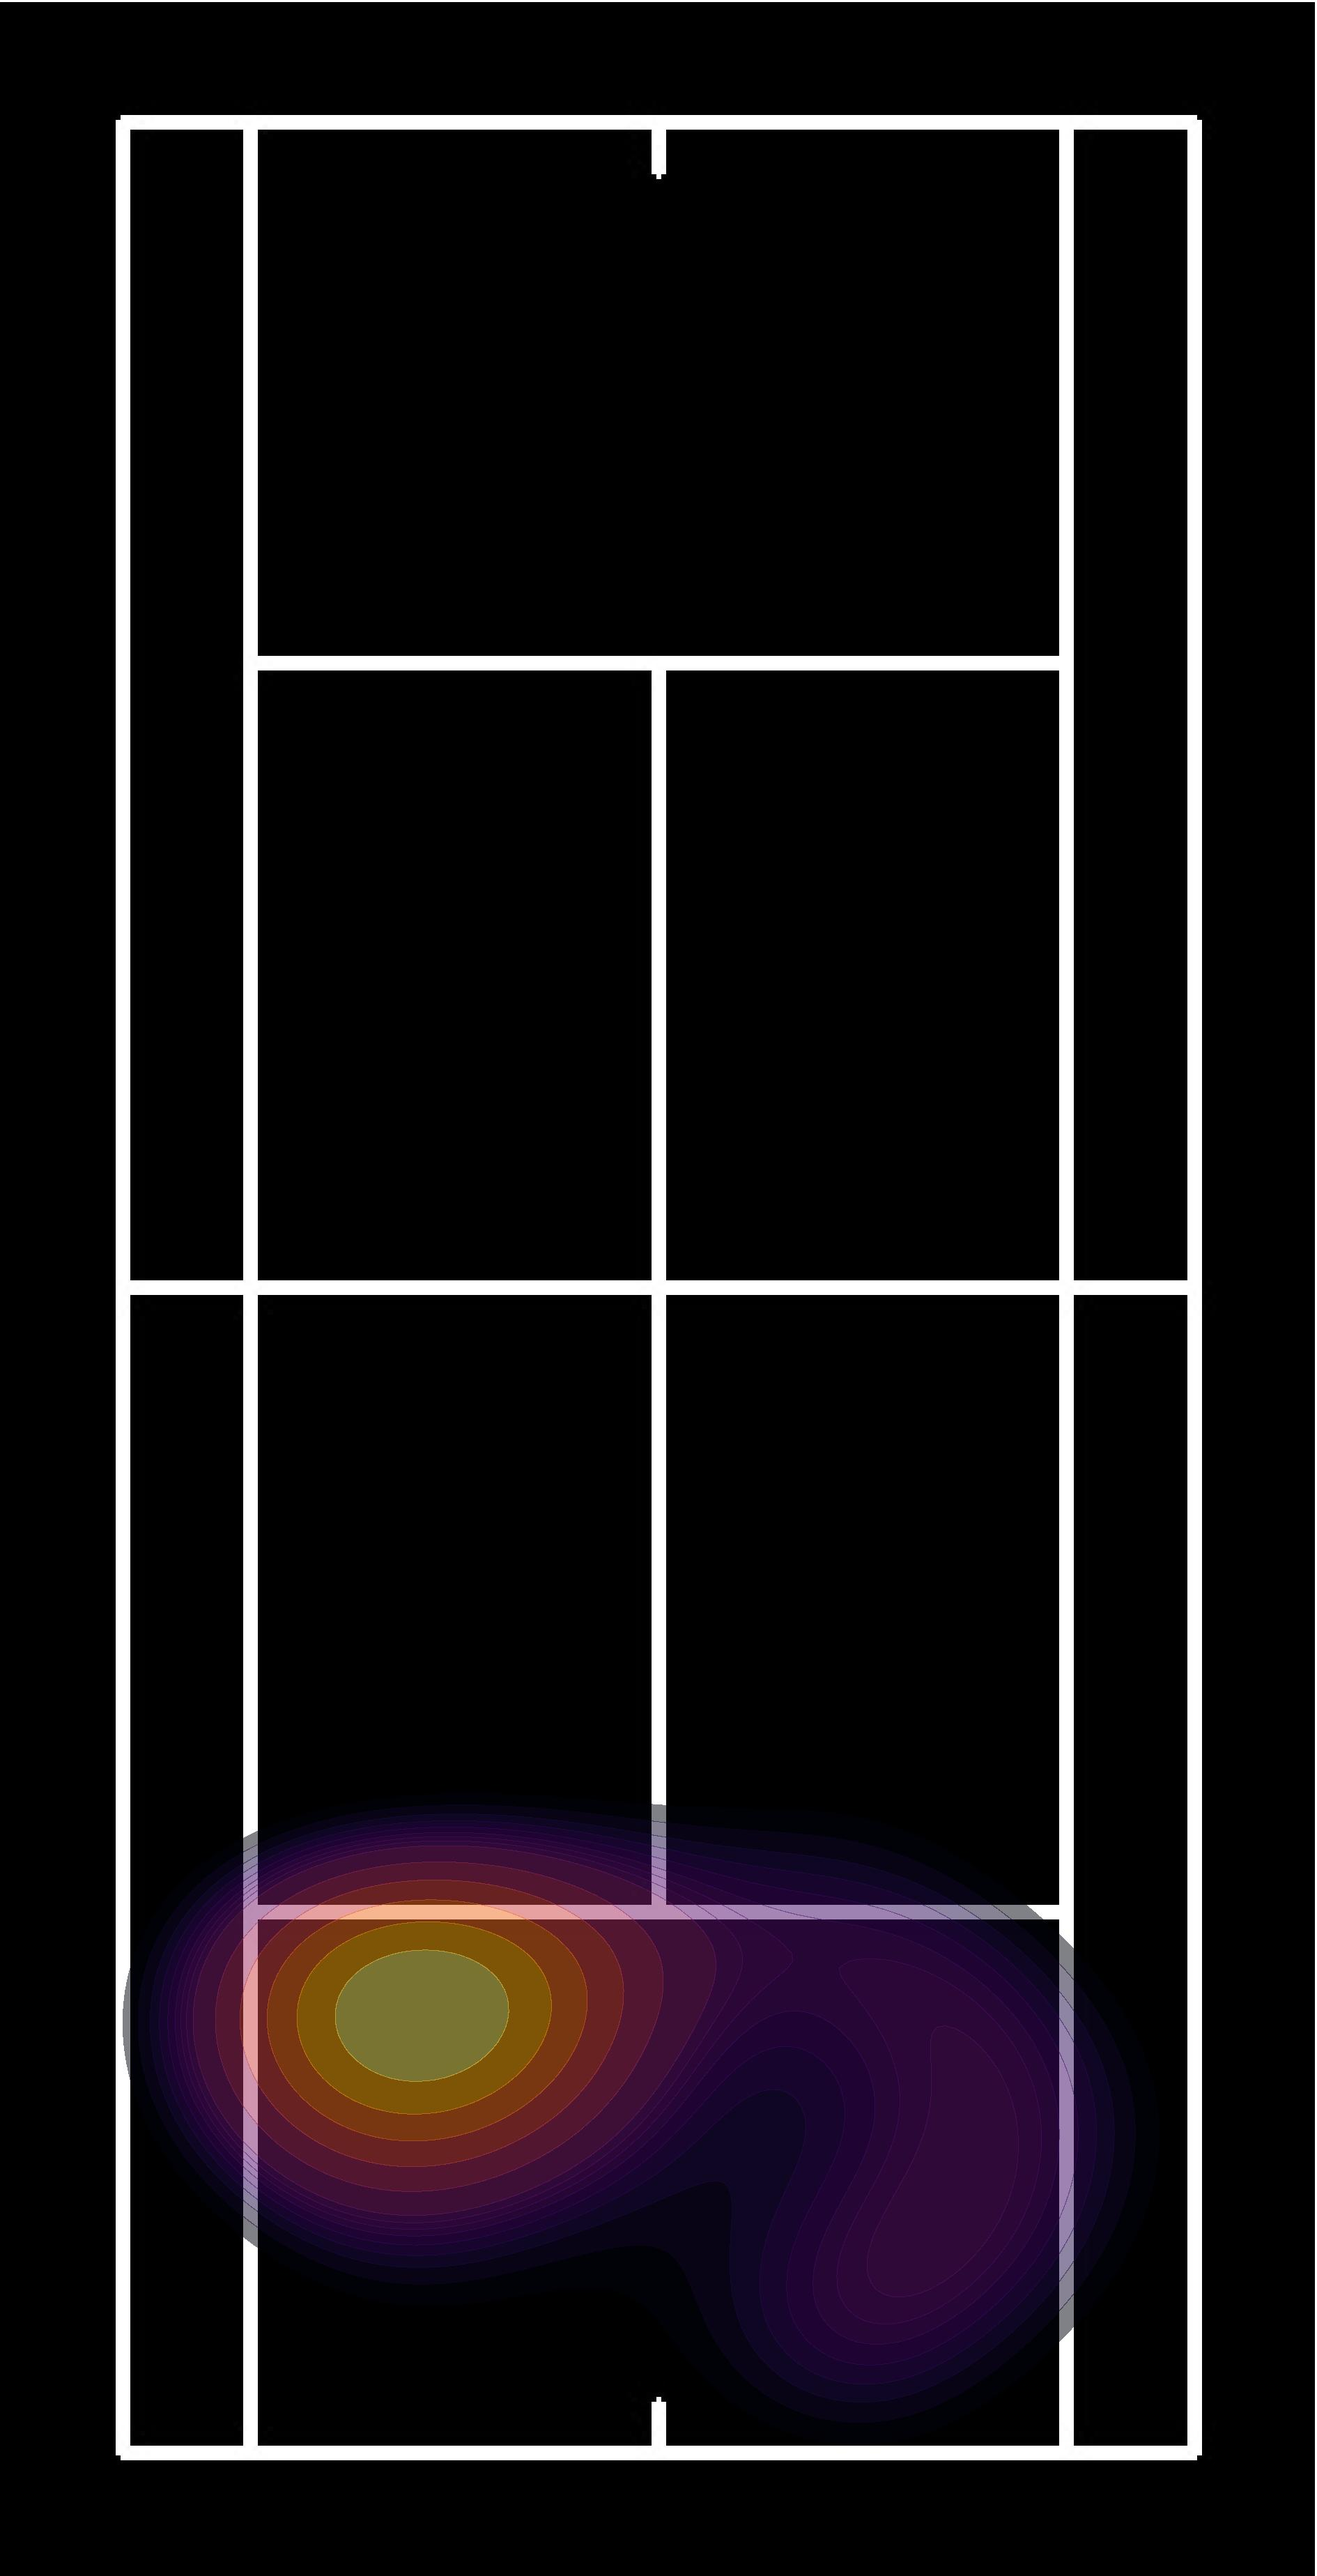
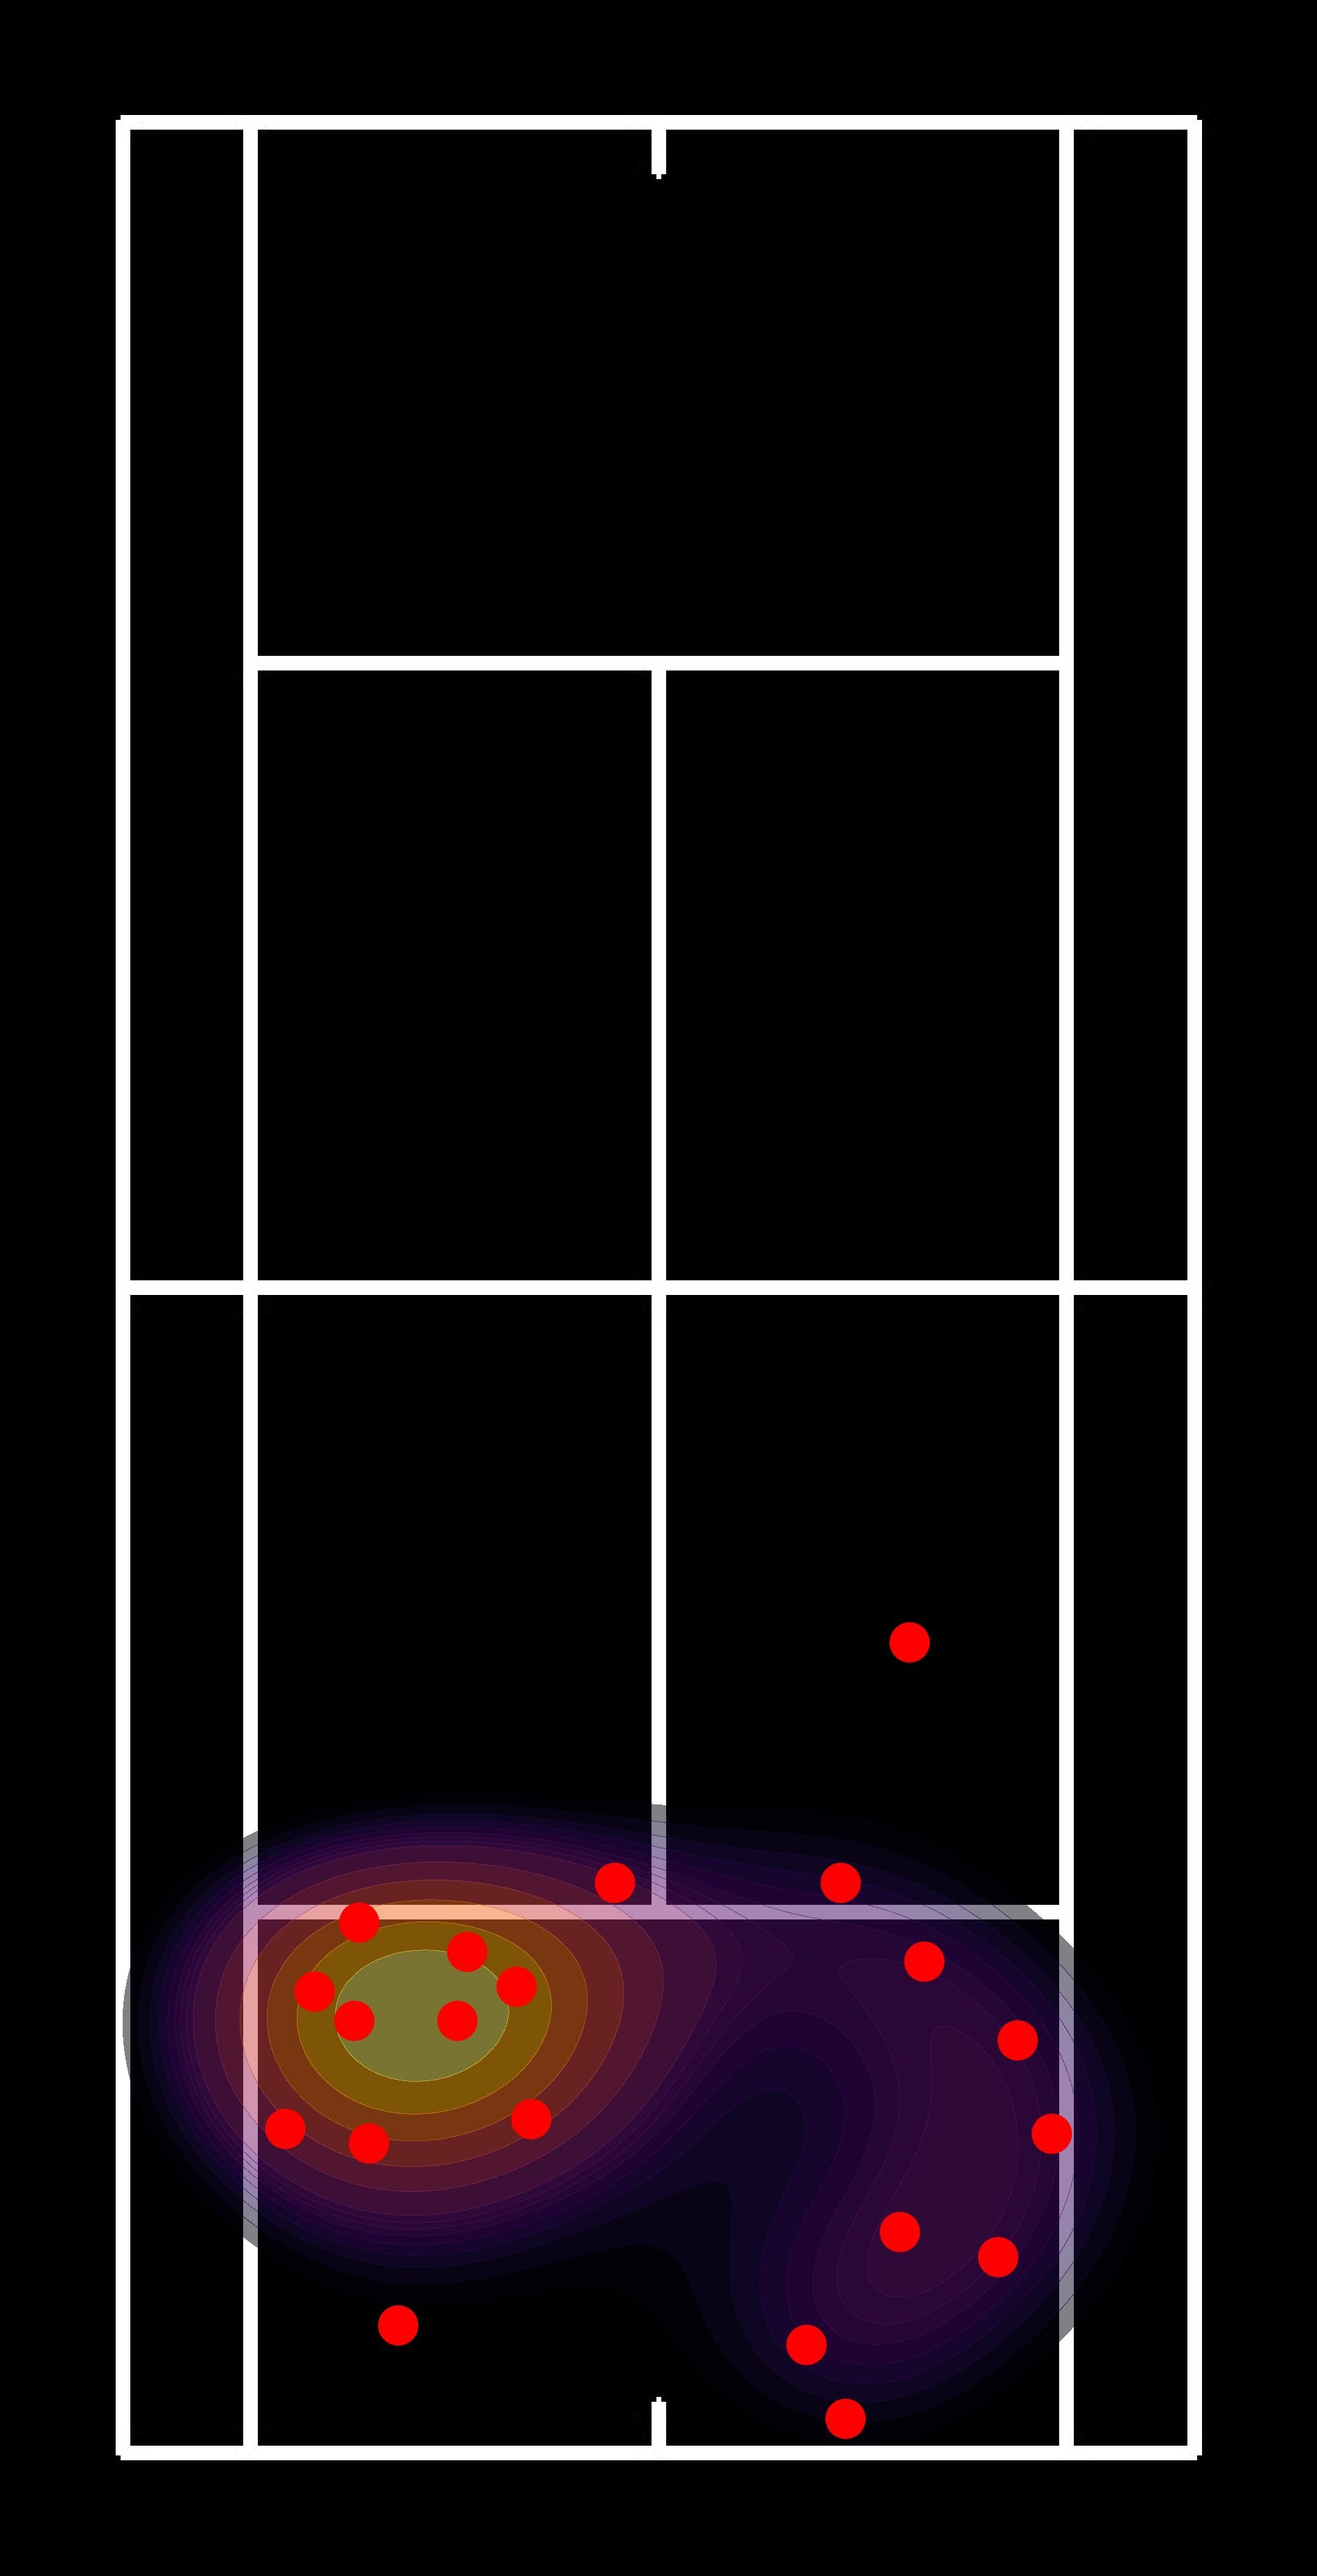
Heatmap nicer

diff --git a/Bounce_Detection/heatmap.py b/Bounce_Detection/heatmap.py
@@ -42,12 +42,17 @@ kde = sns.kdeplot(
     thresh = .3
 )
 
-#plt.scatter(ptX, ptY, s=10, color='red')
+plt.scatter(ptX, ptY, s=10, color='red')
 
 plt.xlim(0, 268); plt.ylim(0, 524)
 
 # Guarda el heatmap
-plt.savefig("heatmap.jpg",dpi = 1000, bbox_inches = 'tight', pad_inches = 0)
+plt.savefig("heatmap.jpg", dpi = 1000, bbox_inches = 'tight', pad_inches = 0)
+
+foto = cv2.imread("heatmap.jpg")
+foto = cv2.line(foto, (0, 0), (foto.shape[1], 0), (0, 0, 0), 5)
+foto = cv2.line(foto, (foto.shape[1], 0), (foto.shape[1], foto.shape[0]), (0, 0, 0), 5)
+cv2.imwrite("heatmap.jpg", foto)
 
 plt.clf()
 plt.close()

diff --git a/Back-End-Flask/heatmap.py b/Back-End-Flask/heatmap.py
@@ -40,5 +40,10 @@ def heatmap(pts):
     # Guarda el heatmap
     plt.savefig("heatmap.jpg",dpi = 1000, bbox_inches = 'tight', pad_inches = 0)
 
+    foto = cv2.imread("heatmap.jpg")
+    foto = cv2.line(foto, (0, 0), (foto.shape[1], 0), (0, 0, 0), 5)
+    foto = cv2.line(foto, (foto.shape[1], 0), (foto.shape[1], foto.shape[0]), (0, 0, 0), 5)
+    cv2.imwrite("heatmap.jpg", foto)
+
     plt.clf()
     plt.close()
